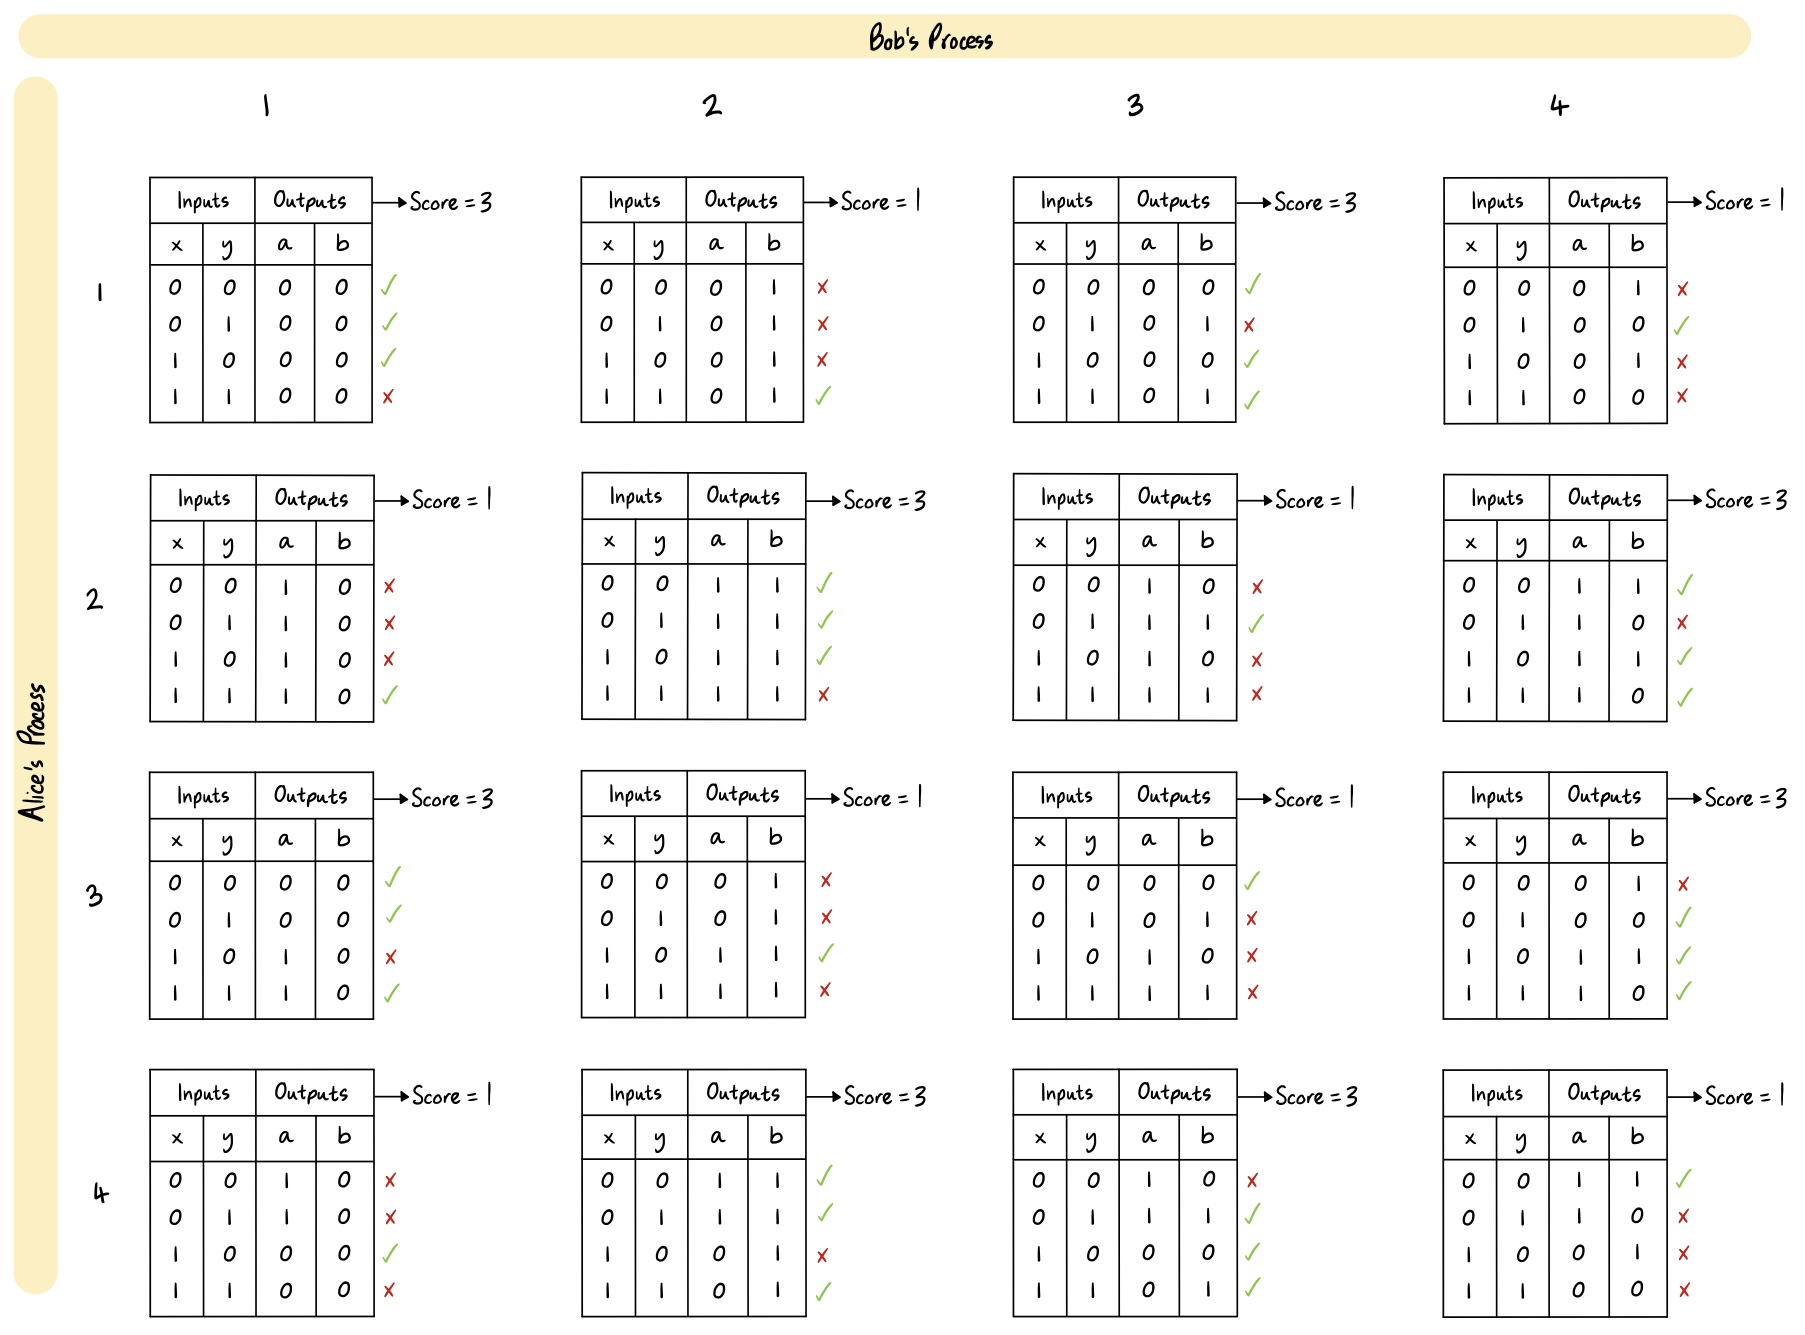
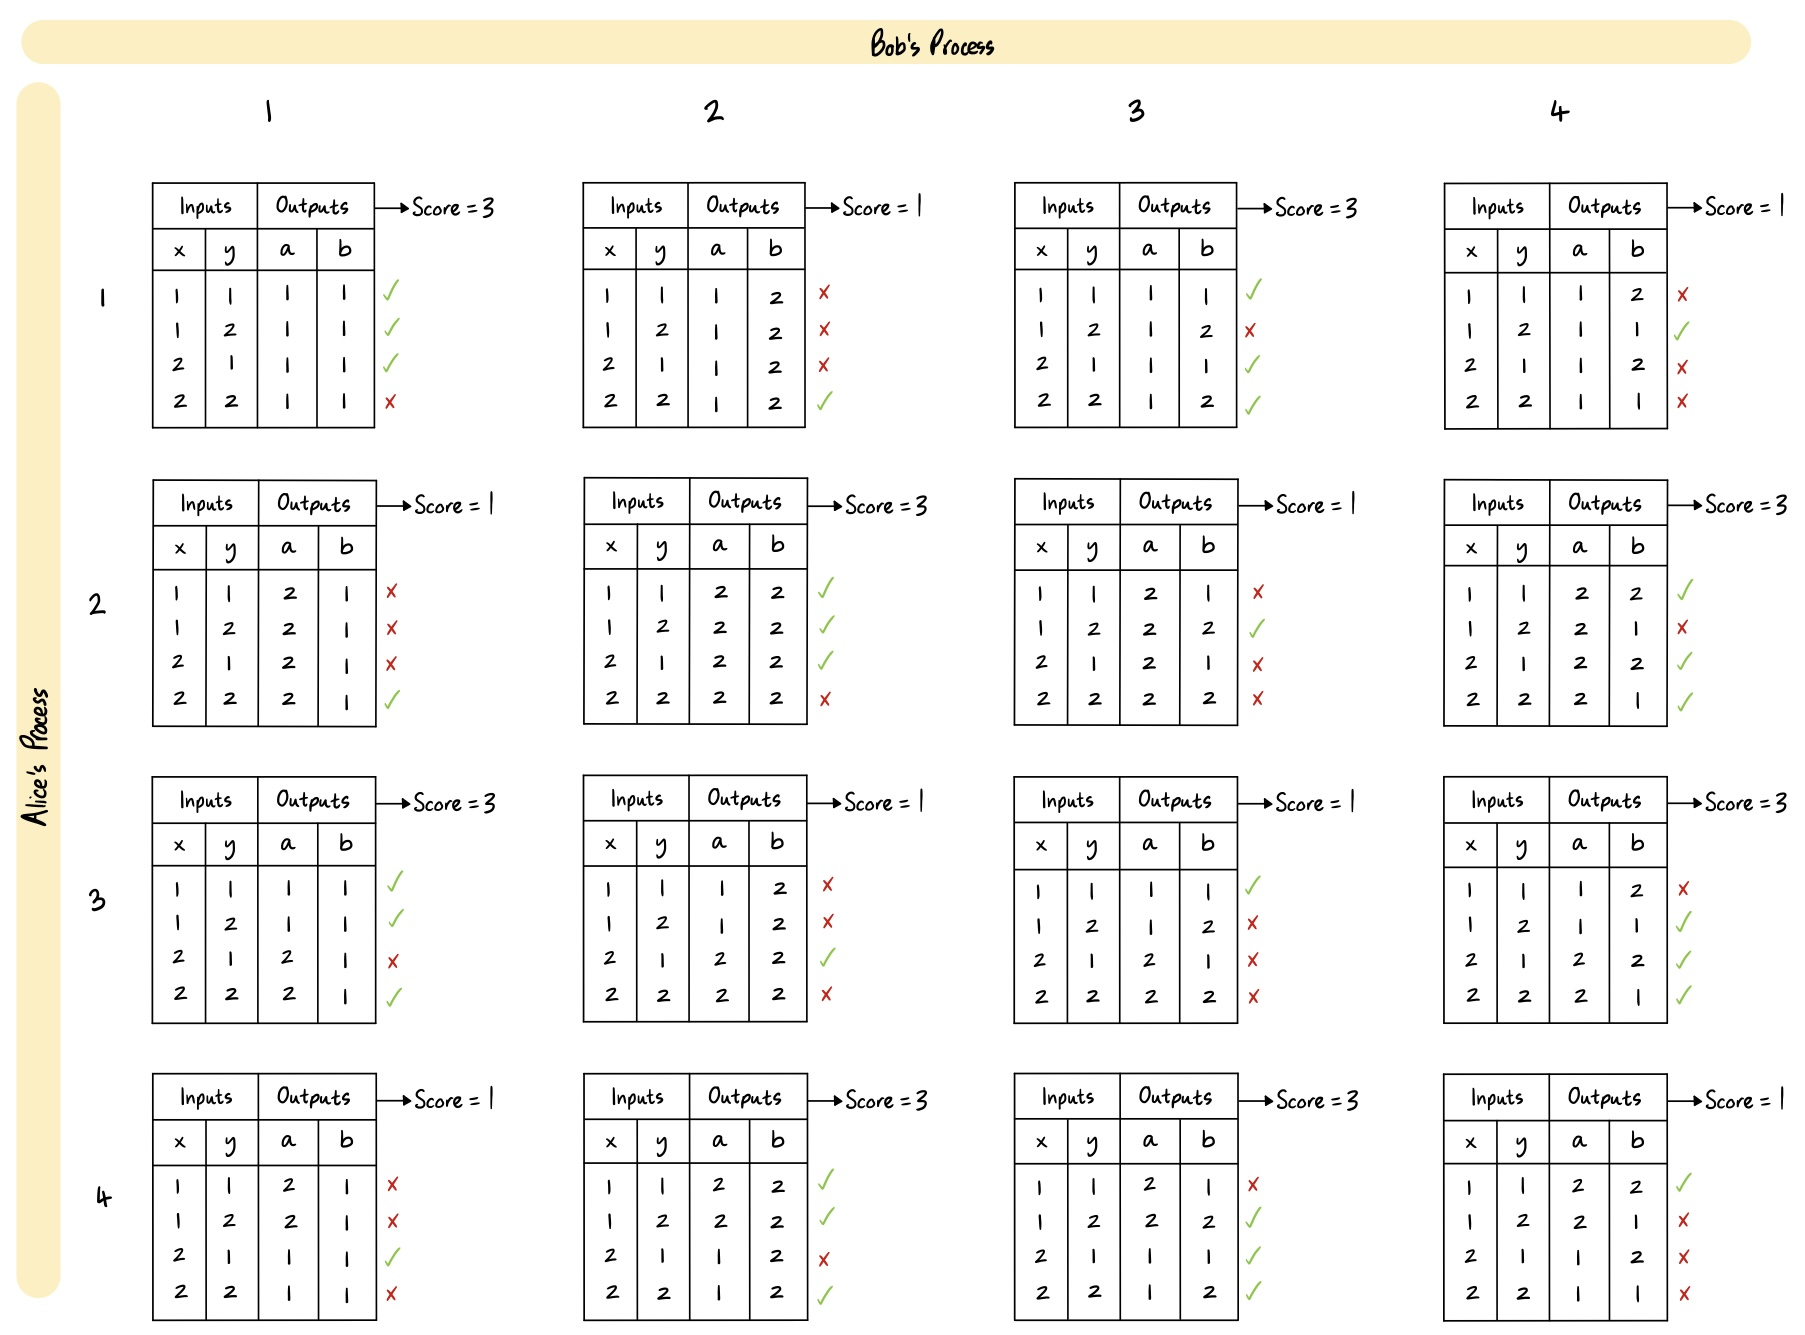
fifteenth commit

diff --git a/Bell Nonlocality.md b/Bell Nonlocality.md
@@ -95,19 +95,19 @@ At this point, with much of the formalism under our belt, it is best to jump str
 ### The $(2,2,2,2)$ Scenario: CHSH
 
 \begin{equation}
-| \langle A_0B_0 \rangle + \langle A_0B_1 \rangle + \langle A_1B_0 \rangle - \langle A_1B_1 \rangle| \leq 2
+| \langle A_1B_1 \rangle + \langle A_1B_2 \rangle + \langle A_2B_1 \rangle - \langle A_2B_2 \rangle| \leq 2
 \end{equation}
 
 \begin{equation}
- P(a=b|0,0) + P(a=b|0,1) + P(a=b|1,0) + P(a \neq b|1,1) \leq 3
+ P(a=b|1,1) + P(a=b|1,2) + P(a=b|2,1) + P(a \neq b|2,2) \leq 3
 \end{equation}
 
 #### Local hidden variable (LHV) strategies
 
 With a classical, or LHV, strategy the maximum probability of winning the game is $\frac{3}{4}$ 0r $75\%$. We will prove this by exhaustion. There are $4$ possible deterministic processes which might be followed by Alice, namely
 
-1. The result is always $a=0$, regardless of the choice for $x$.
-2. The result is always $a=1$, regardless of the choice for $x$.
+1. The result is always $a=1$, regardless of the choice for $x$.
+2. The result is always $a=2$, regardless of the choice for $x$.
 3. The result is always identical to the choice for $x$ (i.e. $a=x$).
 4. The result is always different from the choice for $x$ (i.e. $a \neq x$).
 

diff --git a/Correlators to Probabilities.md b/Correlators to Probabilities.md
@@ -16,7 +16,7 @@ numbering:
 Caption
 ```
 
-```{figure} sliding-tile-game.png
+```{figure} sliding-tile-game.PNG
 :name: sliding-tile-game-figure
 :align: center
 The evolution of a sliding tile puzzle from its unsolved state (left) to its solved state (right). All valid moves are shown by purple arrows.
